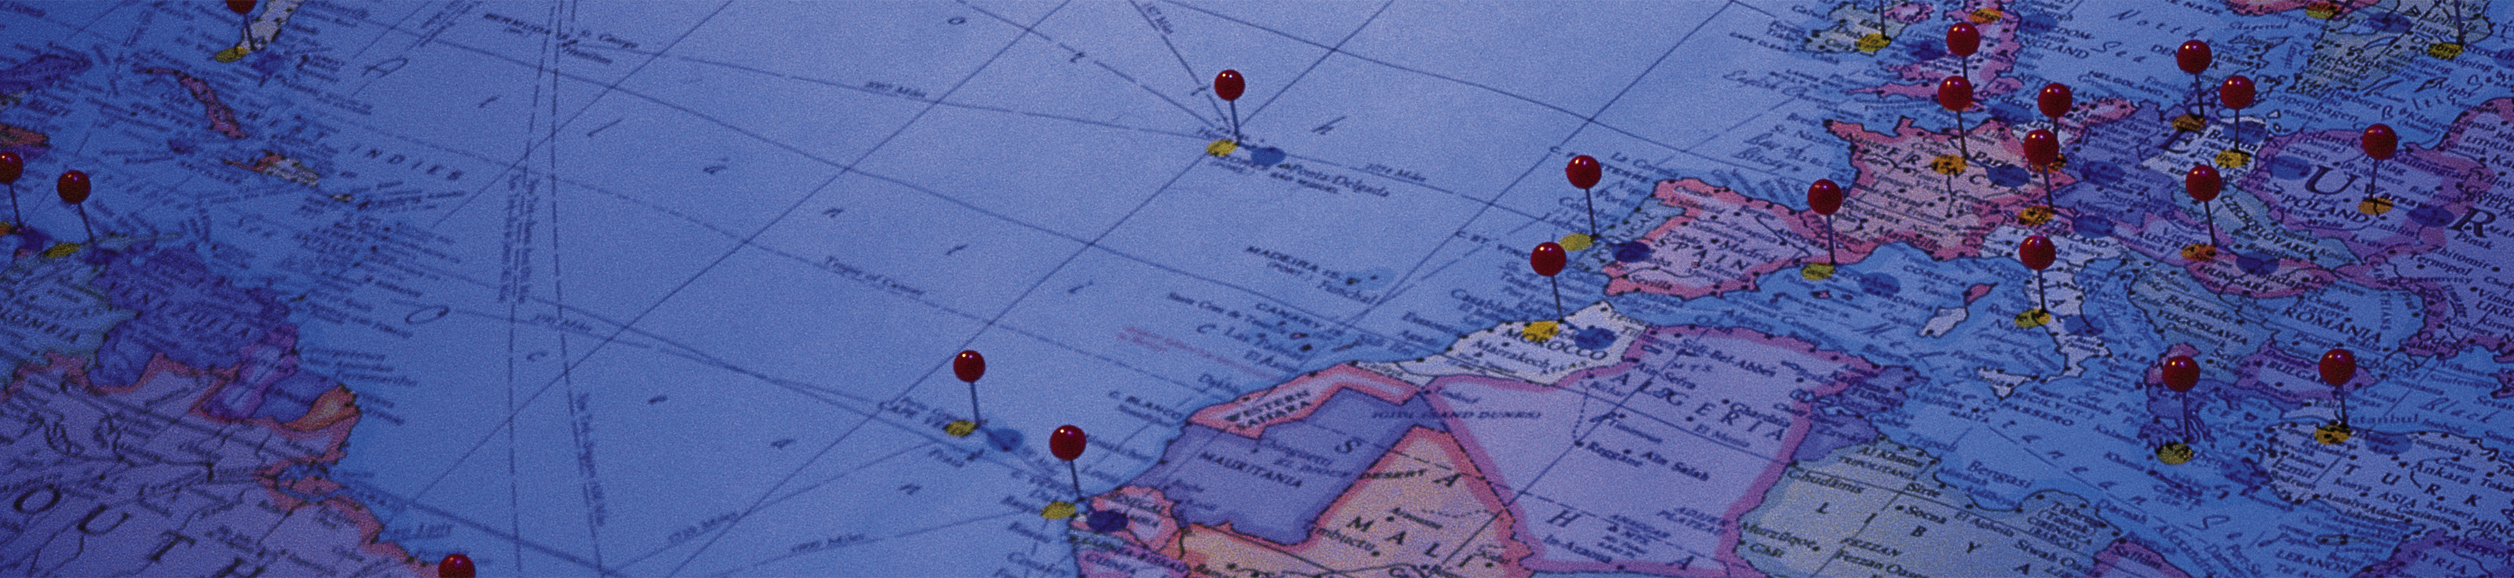
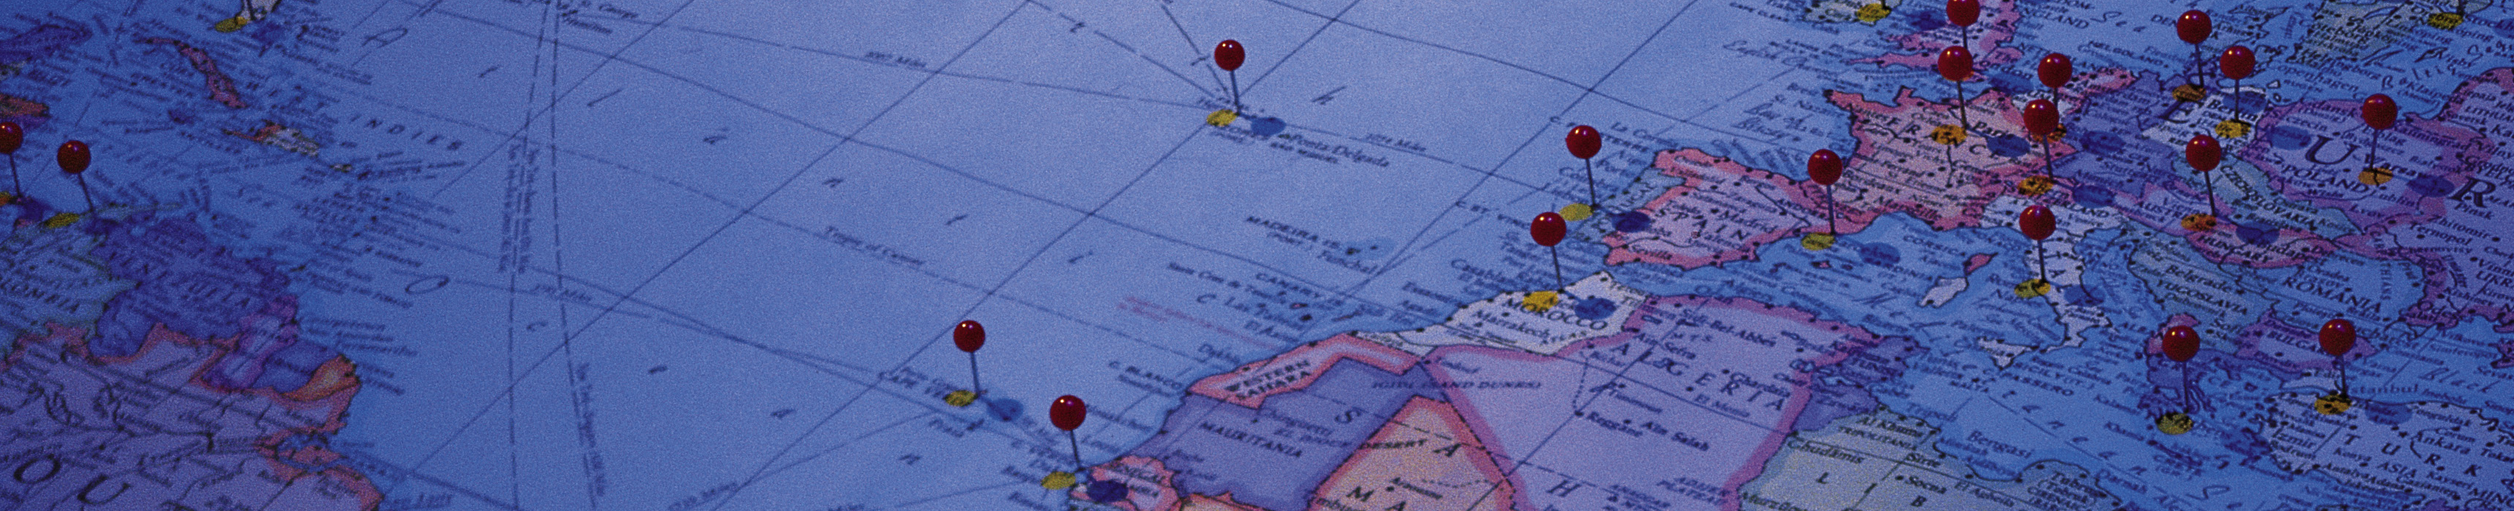
style details fixed
headers height
col width
contact form

diff --git a/index.html b/index.html
@@ -4,29 +4,29 @@ title: Home
 banner_img: header-home.png
 ---
 <section id="all-entries">
-      <div class="row bg-primary col-xs-12 col-sm-12 col-md-8 col-lg-8 col-xl-8 col-md-offset-2 col-lg-offset-2 col-xl-offset-2">
-            <div class="col-xs-6 col-sm-3 col-md-3 col-lg-3">
+      <div class="row bg-primary">
+            <div class="col-xs-6 col-sm-3 col-md-3 col-lg-3 colheight-sm-1">
               <h4>Open Source Tools</h4>
               <div id="entry-image">
               <img src="{{ site.baseurl }}/img/ost.png" data-src="{{ site.baseurl }}/img/ost.png" data-src-retina="{{ site.baseurl }}/img/ost.png" width="480" height="auto" alt="Code for Resilience Tools discussion">
               </div>
               <p>Strengthening local capacity in Open Source ICT tools for disaster resilience... <a href="{{ site.baseurl }}/open-source/">read more</a></p>
             </div>
-            <div class="col-xs-6 col-sm-3 col-md-3 col-lg-3">
+            <div class="col-xs-6 col-sm-3 col-md-3 col-lg-3 colheight-md-2">
               <h4>Fellowship Program</h4>
               <div id="entry-image">
               <img src="{{ site.baseurl }}/img/fellowship-program.png" data-src="{{ site.baseurl }}/img/fellowship-program.png" data-src-retina="{{ site.baseurl }}/img/fellowship-program.png" width="480" height="auto" alt="Japan mentor race for resilience">
               </div>
               <p>Continued development with mentor-suppourted fellowships... <a href="{{ site.baseurl }}/mentoring/">read more</a></p>
             </div>
-            <div class="col-xs-6 col-sm-3 col-md-3 col-lg-3">
+            <div class="col-xs-6 col-sm-3 col-md-3 col-lg-3 colheight-md-2">
               <h4>Code Sprints</h4>
               <div id="entry-image">
               <img src="{{ site.baseurl }}/img/code-sprints.png" data-src="{{ site.baseurl }}/img/code-sprints.png" data-src-retina="{{ site.baseurl }}/img/code-sprints.png" width="480" height="auto" alt="haiti code for resilience event">
               </div>
               <p>Building better software together... <a href="{{ site.baseurl }}/events/">read more</a></p>
             </div>
-            <div class="col-xs-6 col-sm-3 col-md-3 col-lg-3">
+            <div class="col-xs-6 col-sm-3 col-md-3 col-lg-3 colheight-md-2">
               <h4>Projects</h4>
               <div id="entry-image">
               <img src="{{ site.baseurl }}/img/projects.png" data-src="{{ site.baseurl }}/img/projects.png" data-src-retina="{{ site.baseurl }}/img/projects.png" width="680" height="auto" alt="Shelter Situation Reporting App">
@@ -38,7 +38,7 @@ banner_img: header-home.png
     </section><!--/section.row.entries-->
 
     <section id="mission">
-      <div class="row bg-primary col-xs-12 col-sm-12 col-md-8 col-lg-8 col-xl-8 col-md-offset-2 col-lg-offset-2 col-xl-offset-2">
+      <div class="row bg-primary">
         <div>
           <h2>Mission</h2>
             <p>Code for Resilience is a global initiative strengthening resilience to natural disasters by partnering disaster risk management experts with local technology communities.</hp>
@@ -48,12 +48,12 @@ banner_img: header-home.png
     </section><!-- end mission -->
 
     <section id="about">
-      <div class="row bg-primary col-xs-12 col-sm-12 col-md-8 col-lg-8 col-xl-8 col-md-offset-2 col-lg-offset-2 col-xl-offset-2">
+      <div class="row bg-primary">
         <article >
           <h2>About</h2>
             <p>Natural disasters can hamper economic growth, create human suffering, and negatively and disproportionately affect the poor.
             Without appropriate preparedness measures, the extent and impact of economic and social damage associated with disasters will only worsen.</p>
-            <h4>Activities</h4>
+            <h3>Activities</h3>
             <p>Code for Resilience identifies country partners that are willing to commit financial and technical resources to co-invest in developing capacity, community,
               and tools that leverage innovations in technology to strengthen community resilience to natural disasters. Code for Resilience activities include:</p>
 
@@ -75,7 +75,7 @@ banner_img: header-home.png
               </p>
               <p><strong>Evaluating Delivery Against Problem Statements:</strong> To inform future efforts, partners and participants are asked to provide feedback on the process and
               outputs. Evaluations are carried after each code sprint, and additional feedback is welcomed throughout the Code for Resilience engagement.</p>
-          <h4>Background</h4>
+          <h3>Background</h3>
             <p>In the first decade of the 21st century, natural disasters affected the lives of over two billion people—more than a quarter of the world’s population.
               The impact of these disasters disproportionally affected vulnerable communities, and together set the global economy back by nearly US$1 trillion.
               Code for Resilience strengthens the resilience of at-risk communities to natural disasters through innovative uses of information and communication
@@ -94,7 +94,7 @@ banner_img: header-home.png
     </section><!-- end mission -->
 
     <section id="current-projects">
-      <div class="row bg-primary col-xs-12 col-sm-12 col-md-8 col-lg-8 col-xl-8 col-md-offset-2 col-lg-offset-2 col-xl-offset-2">
+      <div class="row bg-primary">
         <div>
           <h2>Current Projects</h2>
               <div class="section content bg-map" id="map-section">

diff --git a/css/components.css b/css/components.css
@@ -229,7 +229,7 @@
 #banner {
   padding-top: 164px;
   overflow: hidden;
-  height: 400px;
+  height: auto;
 }
 #banner img {
   min-width: 100%;
@@ -336,6 +336,25 @@ blockquote.pulled-left {
 }
 .table {
   margin-bottom: 20px;
+}
+#contact-form table {
+  margin-top: 23px;
+  width: 100%;
+}
+#contact-form tr > td {
+  text-align: right;
+  padding-right: 13px;
+}
+#contact-form td input, textarea   {
+  width: 100%;
+  background-color:#e9edef;
+  border-color:#bccad3;
+  border-left-style: solid;
+  border-top-style: solid;
+}
+#contact-form button {
+  margin: 13px;
+  float: right;
 }
 .icon-2x {
   position: relative;
@@ -618,7 +637,7 @@ ul.entries {
 #main #mission p {
   font-size: 1.250em;;
 }
-#main #about h2 {
+#main #about h2, h3 {
   color:#2fabe7;
 }
 #main #about article p:first-of-type {
@@ -1539,7 +1558,7 @@ a.pp_contract {
  * 15. Map
  */
 #map-section {
-  padding: 0 0 93px 0;
+  padding: 0;
 }
 #map-section .ribbon.ribbon-highlight {
   margin: 0 0 0 -5px;

diff --git a/css/base.css b/css/base.css
@@ -50,8 +50,8 @@ body {
 }
 body {
   font-family: 'Roboto Condensed', sans-serif;
-  font-size: 14px;
-  line-height: 24px;
+  font-size: 16px;
+  line-height: 1.7em;
 }
 .aligncenter {
   text-align: center;
@@ -877,7 +877,7 @@ body.scrolled .header-navbar .header-byline {
   }
   .colheight-sm-2,
   .colheight-md-2 {
-    height: 400px;
+    height: 300px; /*400*/
   }
   .colheight-sm-3,
   .colheight-md-3 {

diff --git a/_layouts/default.html b/_layouts/default.html
@@ -11,9 +11,11 @@
     {% include header.html %}
 
     <div id="main" class="container">
+      <div class="col-xs-12 col-sm-12 col-md-8 col-lg-8 col-xl-8 col-md-offset-2 col-lg-offset-2 col-xl-offset-2" style="padding-bottom:93px">
 
       {{ content }}
 
+      </div>
     </div><!--#main.container-->
 
     {% include footer.html %}

diff --git a/css/colors.css b/css/colors.css
@@ -56,6 +56,14 @@ body {
   background-color: #fff;
   color: #444444;
 }
+h1,
+h2,
+h3,
+h4,
+h5,
+h6 {
+  color: #2fabe7;
+}
 a {
   color: #476481;
 }

diff --git a/contact/index.md b/contact/index.md
@@ -1,7 +1,7 @@
 ---
 layout: default
 title: Contact
-banner_img: contact-header.png 
+banner_img: contact-header.png
 ---
 
 Contact the Code for Resilience Team
@@ -12,13 +12,16 @@ Building on the momentum established in 2014 through 10 hackathon events in 8 co
 
 If you are interested in becoming a mentor or a Code for Resilience partner, send an expression of interest and your contact information to codeforresilience@gmail.com.
 
+<div id="contact-form">
 <form action="#" method="post">
   <table border="0">
-  <tr><td>Name:</td><td> <input type="text" name="name"></td></tr>
+  <tr><td>Name: </td><td><input type="text" name="name"></td></tr>
   <tr><td>E-mail: </td><td><input type="text" name="email"></td></tr>
   <tr><td>Country: </td><td><input type="text" name="country"></td></tr>
-  <tr><td>Your query is related to: </td><td><input type="text" name="query"></td></tr>
+  <tr><td>Query: </td><td><input type="text" name="query"></td></tr>
   <tr><td>Message: </td><td><textarea name="message"></textarea></td></tr>
-  <tr><td><input type="submit"></td></tr>
+  <!--tr><td><button class="col-md-4" type="submit"></td></tr-->
   </table>
+  <button class="col-md-2" type="submit">submit</button>
 </form>
+<div>
